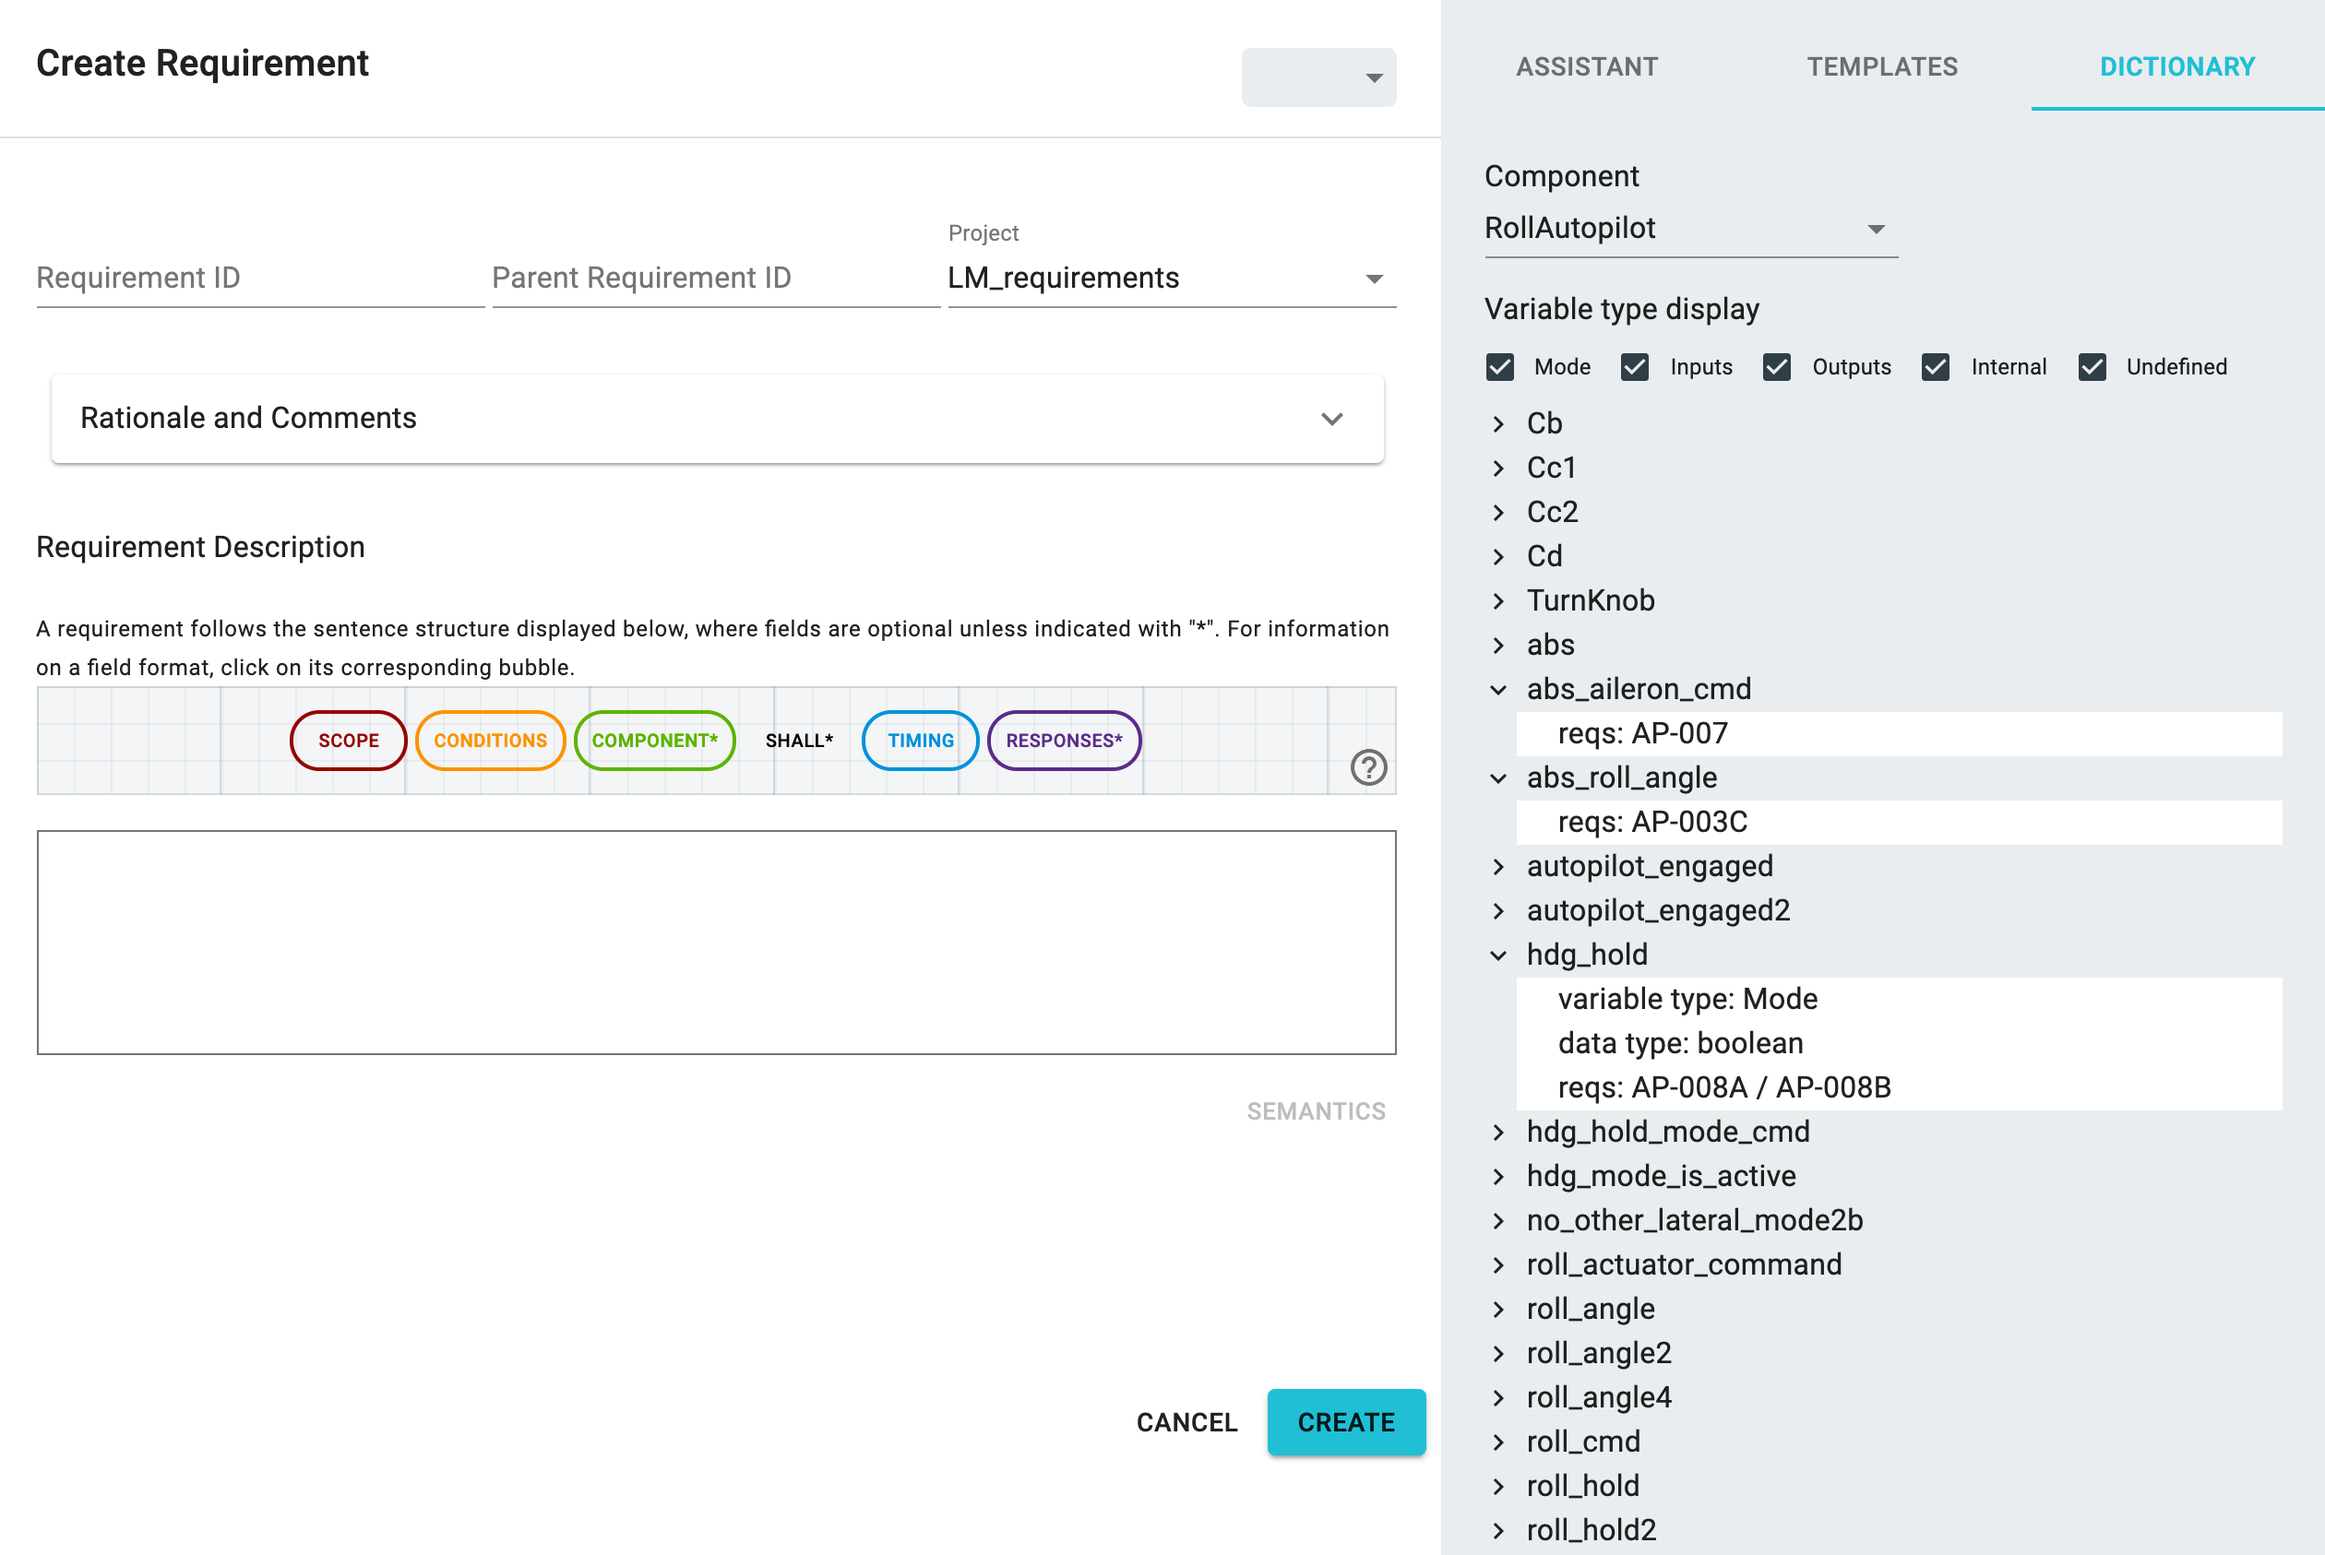
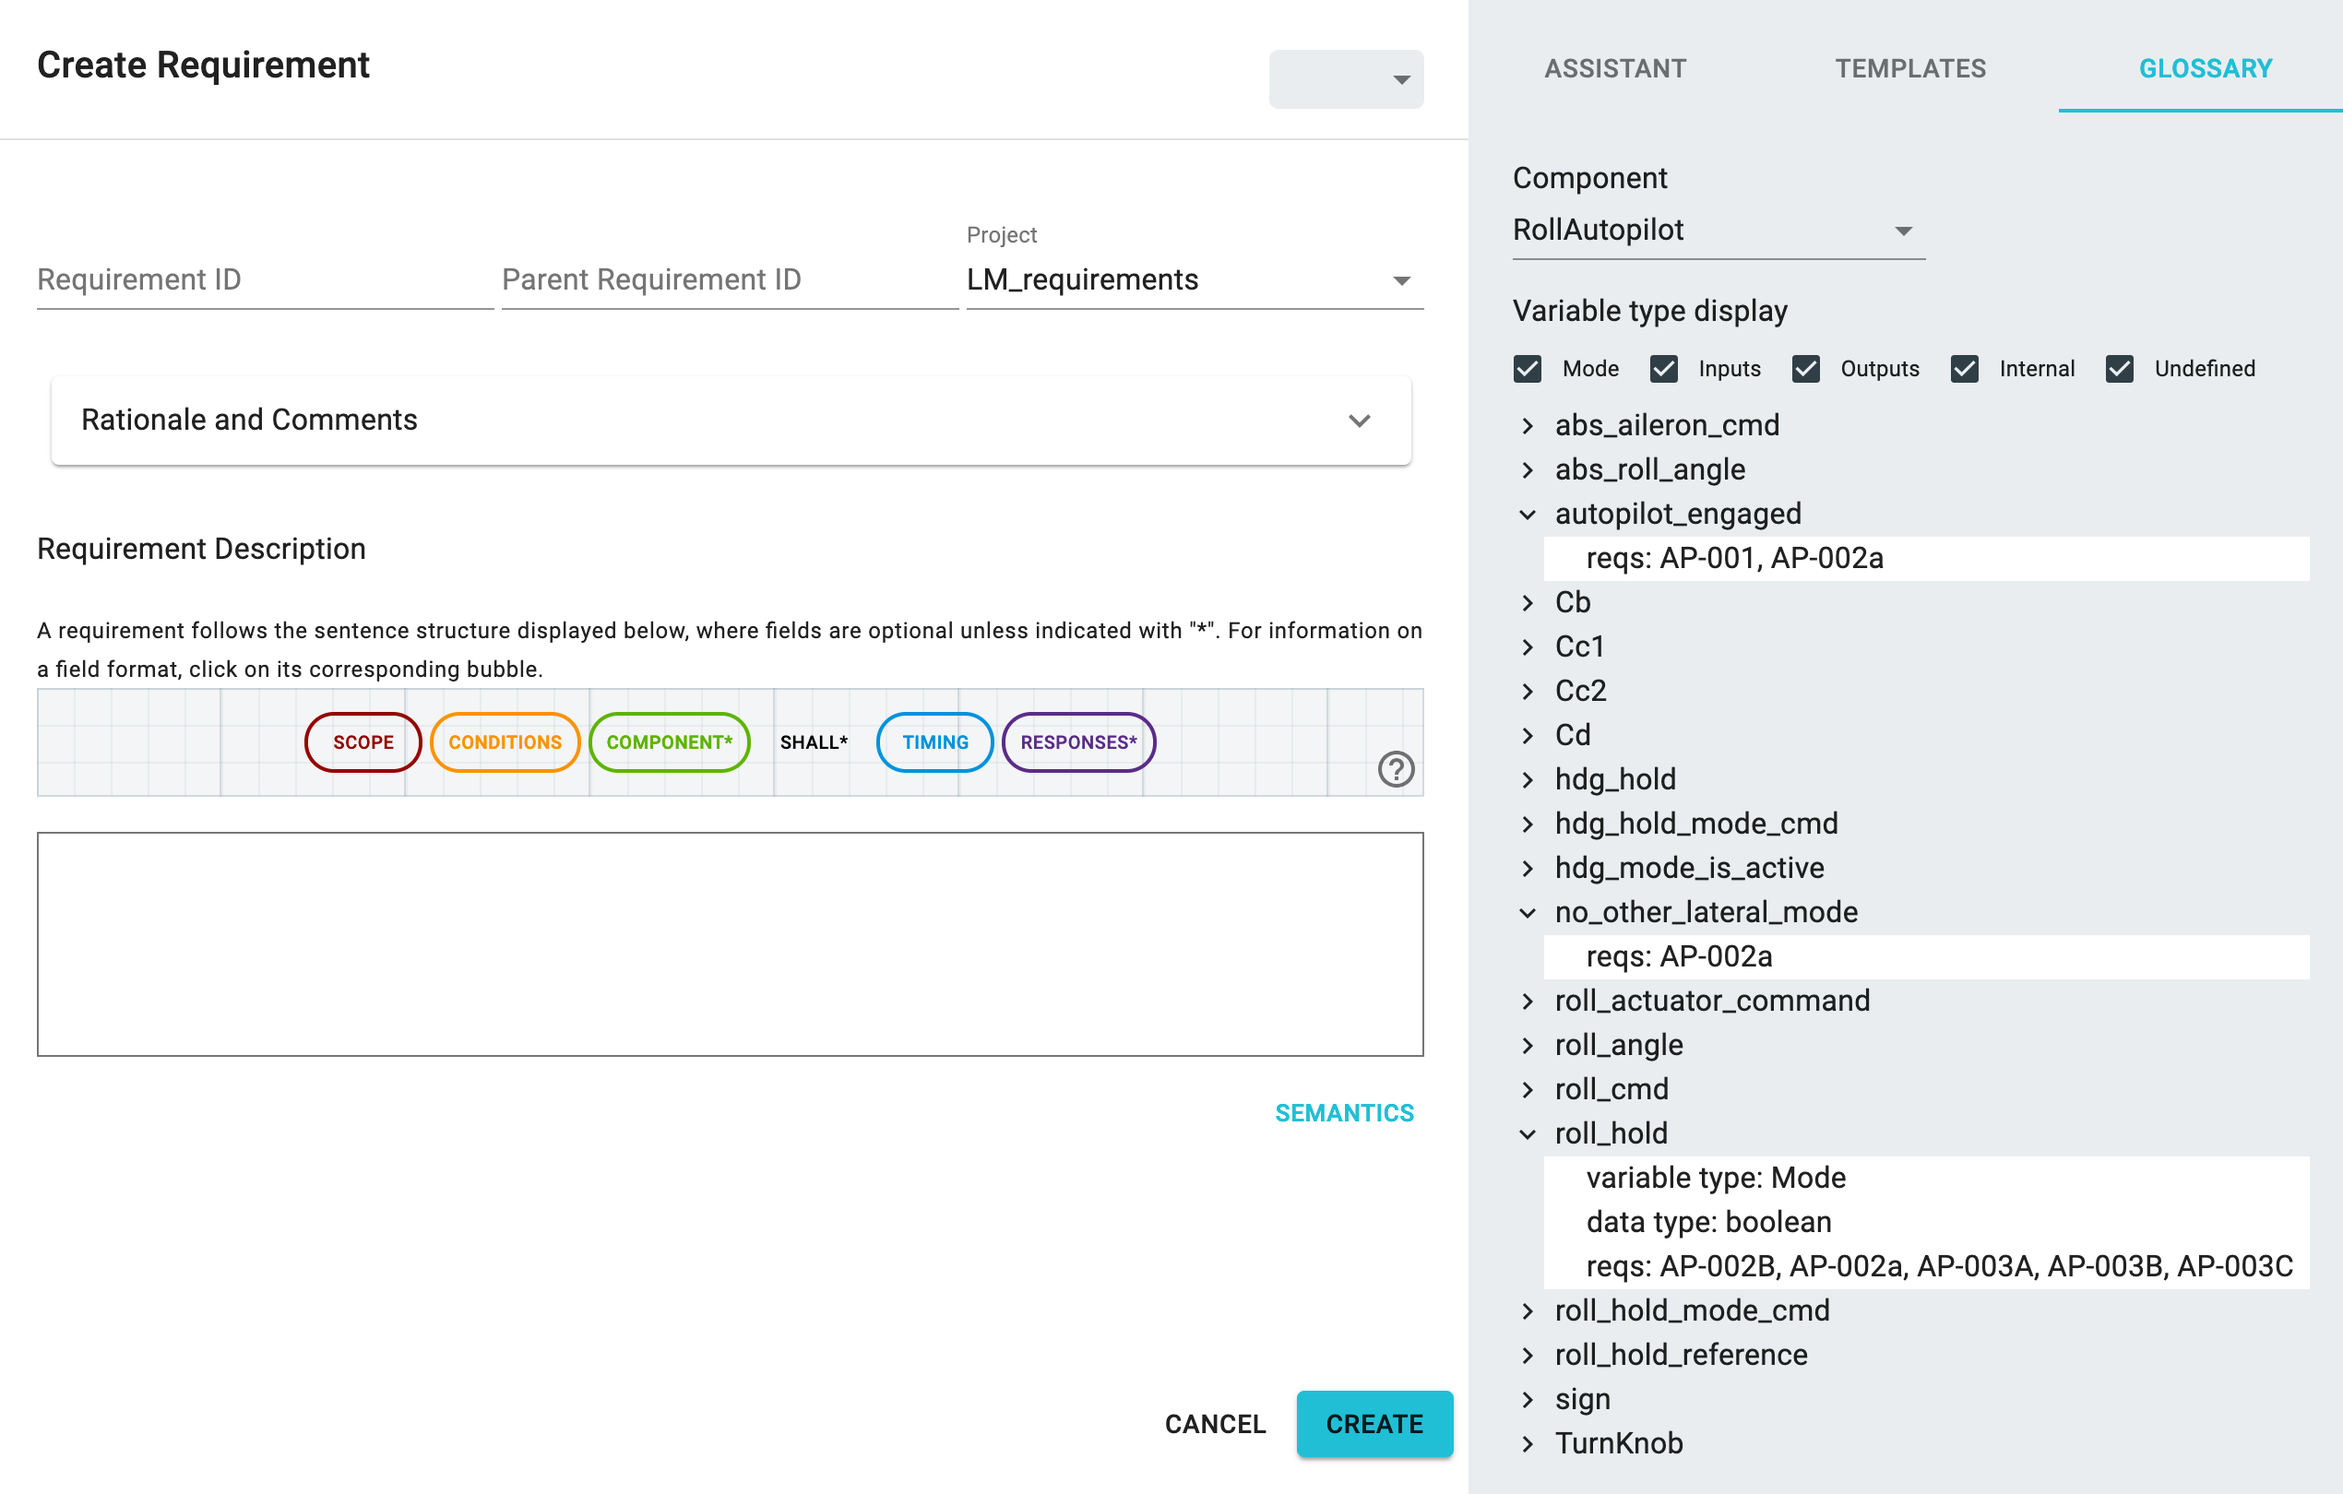
added templates documentation

diff --git a/fret-electron/docs/_media/user-interface/writingReqs.md b/fret-electron/docs/_media/user-interface/writingReqs.md
@@ -29,9 +29,19 @@ While typing the body of a requirement, FRET parses the requirement and recogniz
 
 3. Timing. The optional *timing* field specifies when the response shall happen, relative to the scope and condition.  Timing can be *immediately*, *eventually*, *always*, *never*, *within N time units*,  *for N time units*, or *after N time units*. The latter means that the response happens _N_ time units from the beginning of the requirement's period, and does not happen before that; i.e., does not happen for *N-1* time units after the beginning of the period. [Timing Help Menu](./examples/timing.md)
 
-**Note: Variable dictionary**
+### Templates tab
 
-You can access the *Dictionary* tab from the right pane on the *Create Requirement* or *Update Requirement* dialog.  After selecting a project, you can select a component in the selected project using the *Component* menu bar.  FRET then displays existing variables of the selected component.  These variables can be filtered by the variable type including *Mode*, *Inputs*, *Outputs* and *Internal* using check boxes under the *Component* menu bar.  
+Predefined templates simplify requirement writting to filling in required and optional fields.  You can access the *TEMPLATES* tab from the right pane on the *Create Requirement* or *Update Requirement* dialog.  Template for the following requirement types are available: *Change State*, *Process Command*, *Check Bounds*, *Set Diagnostic Flag*, and *Prescribe Format*.  Upon selecting a predefined template, a FRETish requirement appear in the editor with required and optional fields in bubles.  Replace the field bubles to define your requirement. An explanation of the predefined requirement type you selected and an example are shown in the *TEMPLATES* pane.  The following example is for the *Change State* template.
+
+***
+
+<img src="../screen_shots/change_state_template.png">
+
+***
+
+### Variable glossary tab
+
+You can access the *GLOSSARY* tab from the right pane on the *Create Requirement* or *Update Requirement* dialog.  After selecting a project, you can select a component in the selected project using the *Component* menu bar.  FRET then displays existing variables of the selected component.  These variables can be filtered by the variable type including *Mode*, *Inputs*, *Outputs* and *Internal* using check boxes under the *Component* menu bar.  
 
 ***
 
@@ -39,7 +49,7 @@ You can access the *Dictionary* tab from the right pane on the *Create Requireme
 
 ***
 
-You can expand a variable on the *Dictionary* tab to see more details.  The details include a list of requirements referencing this variable and show values of varialbe attributes that are defined.  Current attributes of a variable include *variable type*, *data type*, *assignment*, *modelComponent*, and *description*.
+You can expand a variable on the *GLOSSARY* tab to see more details.  The details include a list of requirements referencing this variable and show values of varialbe attributes that are defined.  Current attributes of a variable include *variable type*, *data type*, *assignment*, *modelComponent*, and *description*.
 
 ***
 
@@ -47,7 +57,7 @@ You can expand a variable on the *Dictionary* tab to see more details.  The deta
 
 ***
 
-The list of variables shown in the *Dictionary* tab is used to autocomplete when typing in the editor of the  *Create Requirement* and *Update Requirement* dialog.
+The list of variables shown in the *GLOSSARY* tab is used to autocomplete when typing in the editor of the  *Create Requirement* and *Update Requirement* dialog.
 
 ***
 
